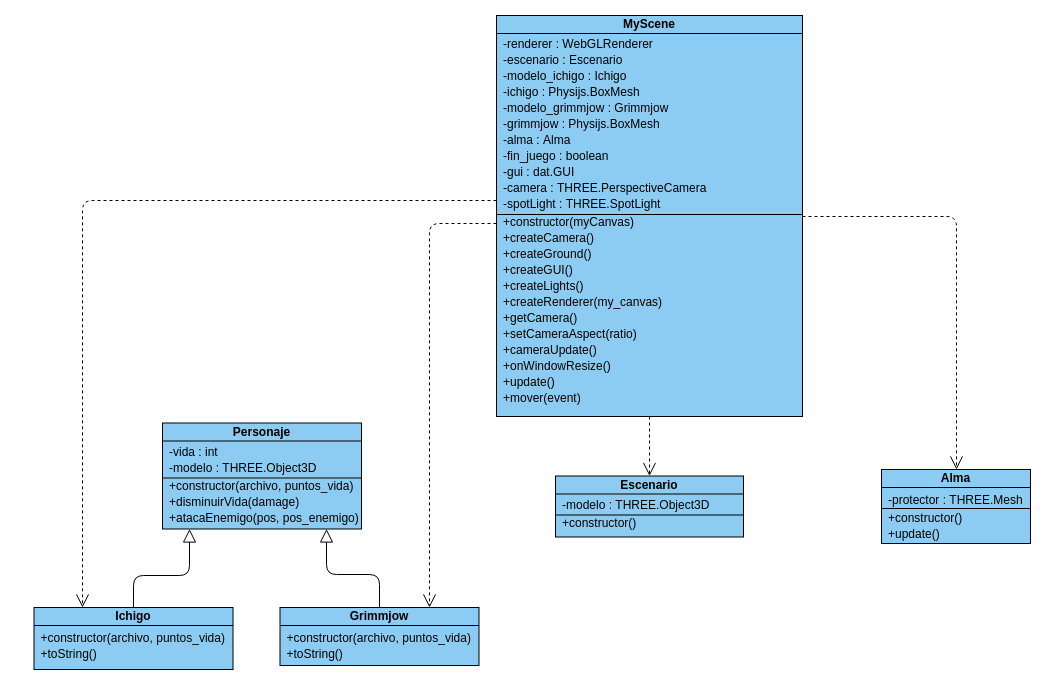
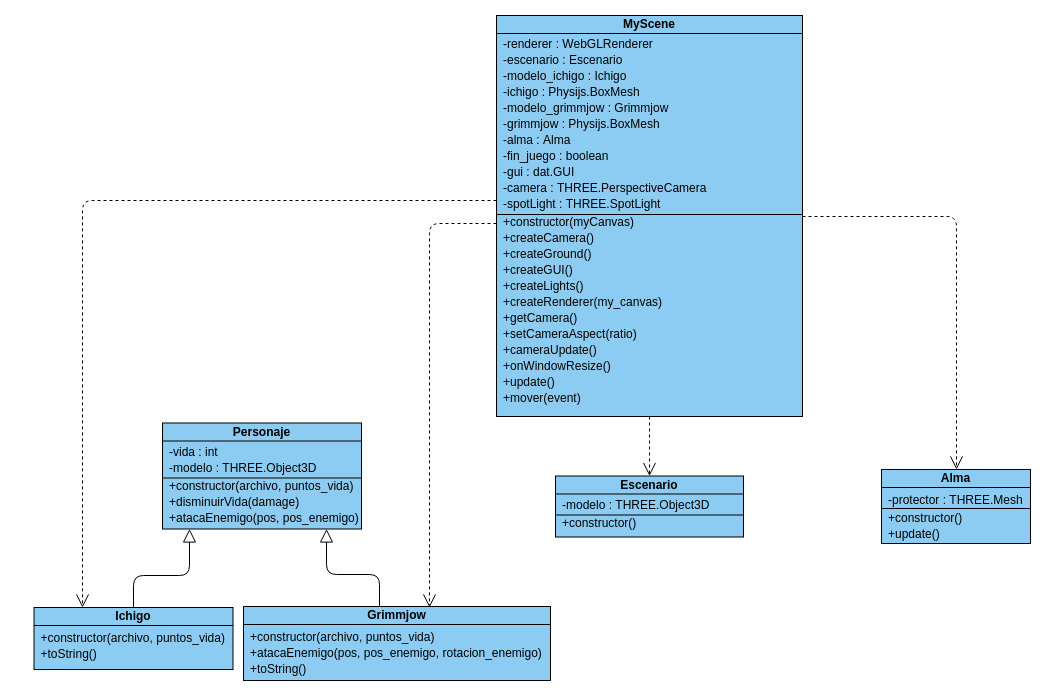
Finalizada doc

Changed region(s): [[0.2139, 0.8547, 0.5501, 1.0]]

diff --git a/Practicas/BLEACH RPG/personajes/personaje.js b/Practicas/BLEACH RPG/personajes/personaje.js
@@ -35,16 +35,16 @@ class Personaje extends THREE.Object3D{
 
     // Si la vida llega a 0 el personaje cae al suelo con una orientación que depende de hacia donde mire
     if(this.vida <= 0){
-      if(this.rotation.y == Math.PI/2)
+      if(Math.abs(this.rotation.y-Math.PI/2) <= 2.0)
         this.rotation.set(0, 0, Math.PI/2);
 
-      else if(this.rotation.y == 0)
+      else if(Math.abs(this.rotation.y-0) <= 2.0)
         this.rotation.set(-Math.PI/2, this.rotation.y, 0);
 
-      else if(this.rotation.y == -Math.PI/2)
+      else if(Math.abs(this.rotation.y+Math.PI/2) <= 2.0)
         this.rotation.set(0, 0, -Math.PI/2);
 
-      else if(this.rotation.y == Math.PI)
+      else if(Math.abs(this.rotation.y-Math.PI) <= 2.0)
         this.rotation.set(Math.PI/2, this.rotation.y, 0);
 
       // Debemos bajar al personaje al -2.5 porque al estar dentro de las cajas quedan flotando
@@ -57,28 +57,9 @@ class Personaje extends THREE.Object3D{
 
     // Si el enemigo está en el rango de ataque
     if(Math.abs(pos_enemigo.x-pos.x) <= 5.0 &&
-       Math.abs(pos_enemigo.z-pos.z) <= 5.0){
-
-        // Los personajes se giran hacia donde esté el enemigo para enfrentarlo
-        if(Math.abs(pos_enemigo.x-pos.x) <= 3.0){
-          if(pos_enemigo.z < pos.z)
-            this.rotation.y = Math.PI;
-
-          else
-            this.rotation.y = 0.0;
-        }
-
-        if(Math.abs(pos_enemigo.z-pos.z) <= 3.0){
-          if(pos_enemigo.x < pos.x)
-            this.rotation.y = -Math.PI/2;
-
-          else
-            this.rotation.y = Math.PI/2;
-        }
-
+       Math.abs(pos_enemigo.z-pos.z) <= 5.0)
         // El daño hecho es un número aleatorio entre 1 y 3 ambos inclusive
         damage = Math.floor(Math.random()*(+4 - +1))+1;
-    }
 
     return damage;
   }

diff --git a/Practicas/BLEACH RPG/MyScene.js b/Practicas/BLEACH RPG/MyScene.js
@@ -66,7 +66,7 @@ class MyScene extends Physijs.Scene {
 
     // Añadimos el alma: es el objetivo del protagonista
     this.alma = new Alma();
-    this.alma.position.set(35, 0, 30);
+    this.alma.position.set(50, 0, 50);
     this.add(this.alma);
 
     this.fin_juego = false
@@ -87,9 +87,9 @@ class MyScene extends Physijs.Scene {
         if(Math.abs(enemigo.position.x-tu.position.x) <= 5.0 &&
            Math.abs(enemigo.position.z-tu.position.z) <= 5.0){
              // Tanto el protagonista (tú) como el enemigo se hacen daño mutuo en cada colisión
-             var damage = modelo_enemigo.atacaEnemigo(tu.position, enemigo.position);
+             var damage = modelo_tu.atacaEnemigo(tu.position, enemigo.position);
              modelo_enemigo.disminuirVida(damage);
-             damage = modelo_enemigo.atacaEnemigo(enemigo.position, tu.position);
+             damage = modelo_enemigo.atacaEnemigo(enemigo.position, tu.position, tu.rotation.y);
              modelo_tu.disminuirVida(damage);
         }
     });
@@ -265,7 +265,6 @@ class MyScene extends Physijs.Scene {
     // Se actualiza la posición de la cámara según el movimiento del personaje
     this.cameraUpdate();
 
-    // https://stackoverflow.com/questions/34569703/raycaster-does-not-move-boxmesh-objects
     // Hay que actualizar las flags para que se muevan los objetos porque se
     // ponen a false en cada actualización
     this.ichigo.__dirtyPosition = true;

diff --git a/Practicas/BLEACH RPG/personajes/grimmjow.js b/Practicas/BLEACH RPG/personajes/grimmjow.js
@@ -4,6 +4,23 @@ class Grimmjow extends Personaje {
     super(archivo, puntos_vida);
   }
 
+  atacaEnemigo(pos, pos_enemigo, rotacion_enemigo){
+    var damage = 0;
+
+    // Si el enemigo está en el rango de ataque
+    if(Math.abs(pos_enemigo.x-pos.x) <= 5.0 &&
+       Math.abs(pos_enemigo.z-pos.z) <= 5.0){
+
+        // El personaje rota según por dónde debe atacar
+        this.rotation.y = Math.PI-rotacion_enemigo-Math.PI/2;
+
+        // El daño hecho es un número aleatorio entre 1 y 3 ambos inclusive
+        damage = Math.floor(Math.random()*(+4 - +1))+1;
+    }
+
+    return damage;
+  }
+
   // toString para saber el personaje y su vida
   toString(){
     return "Grimmjow Jaegerjaquez\nVida: " + this.vida.toString();

diff --git a/Practicas/BLEACH RPG/doc/doc_aplicacion.tex b/Practicas/BLEACH RPG/doc/doc_aplicacion.tex
@@ -170,4 +170,17 @@ Para poder ver la vida del personaje se ha utilizado la propia interfaz de usuar
 
 El enemigo, Grimmjow, tiene un handicap ya que tiene 5 puntos de vida más que el protagonista. Esto está hecho para añadir una cierta dificultad en ganarle y como parte de la historia, ya que el alma del protagonista ha sido robada y eso le ha quitado fuerza vital (he intentado resemblar lo que ocurren en la serie en la que me he basado para hacer este juego).
 
+\section{Demo}
+
+En este \texttt{.zip} se incluye una pequeña demo de 30 segundos para mostrar la muerte del enemigo, ya que es lo más complicado del juego. Que mate al personaje principal es más sencillo (este vídeo ha salido después de muchas grabaciones porque siempre era yo la que moría).
+
+\section{Bibliografía}
+
+\begin{itemize}
+	\item \color{blue}\href{https://stackoverflow.com/questions/34569703/raycaster-does-not-move-boxmesh-objects}{https://stackoverflow.com/questions/move-physic-box}\color{black}
+	\item \color{blue}\href{https://threejs.org/}{https://threejs.org/}\color{black}
+	\item \color{blue}\href{https://pybullet.org/Bullet/phpBB3/index.php?sid=0e8c6e5111583be0d17f1731e4c1dc19}{https://pybullet.org/}\color{black}
+	\item Transparencias de la asignatura Sistemas Gráficos
+\end{itemize}
+
 \end{document}
